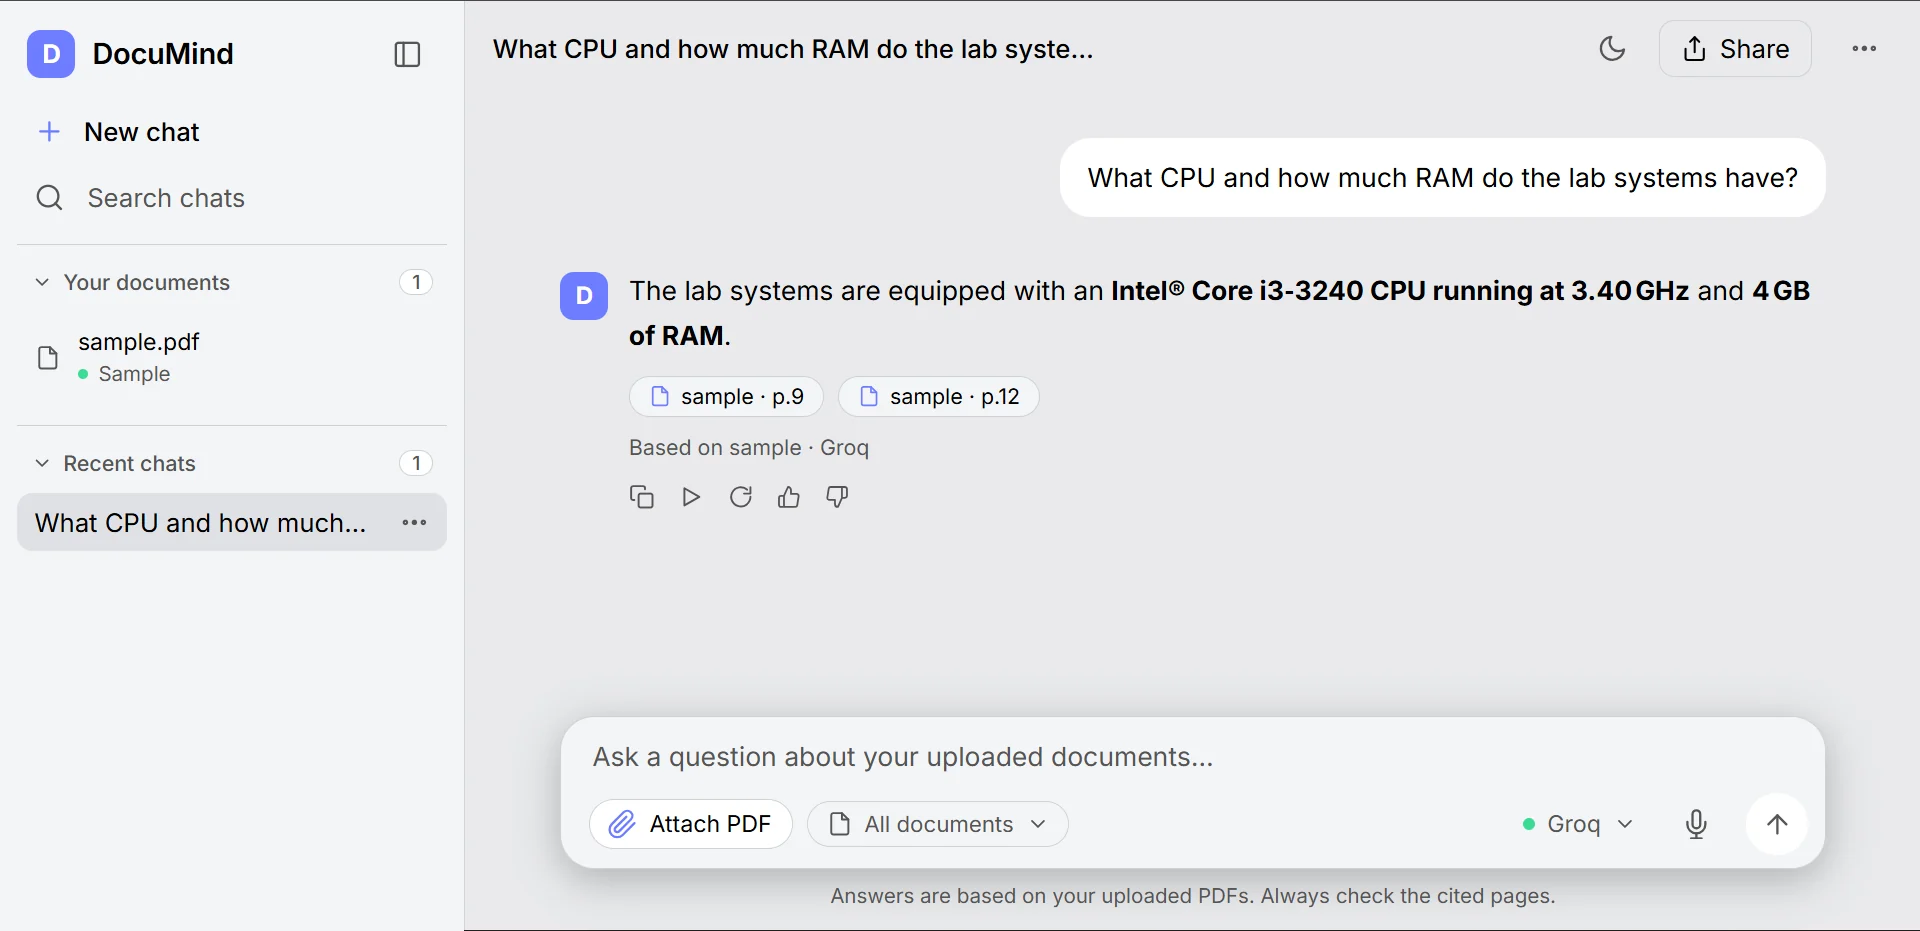
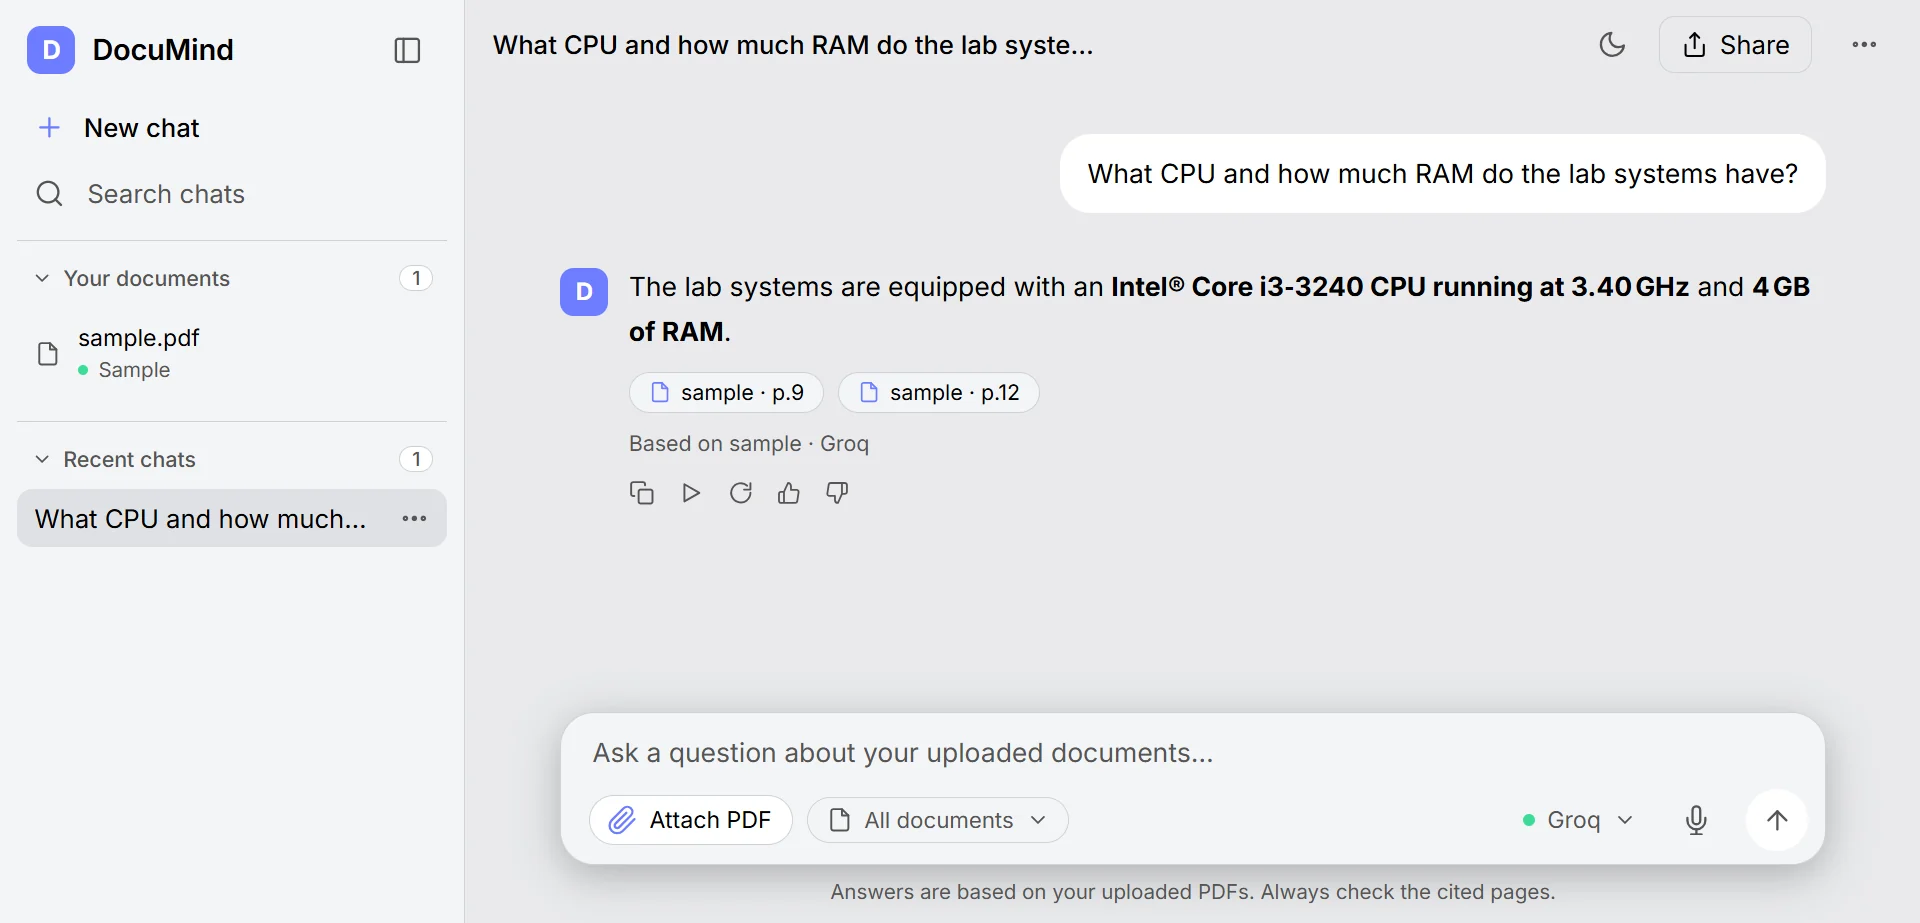
Polish Home: fix text, spacing, contrast and screenshot edges
Problem: a sentence was broken, sections had large gaps, light mode text was pale and screenshots had dark edge lines.

Fix: corrected text, tighter spacing, darker accent text in light mode, cropped screenshots, aligned cards.

Tested: npm run build; checked light and dark themes.

diff --git a/web/src/site/Legal0.jsx b/web/src/site/Legal0.jsx
@@ -1,0 +1,152 @@
+import { A } from "./shared.jsx";
+
+const MAIL = "navedmoghalpathan@proton.me";
+
+function Head({ eyebrow, title, intro, legal }) {
+  return (
+    <section className={"st-pagehead" + (legal ? " st-legal-head" : "")}>
+      <div className="st-wrap">
+        <p className="st-eyebrow">{eyebrow}</p>
+        <h1>{title}</h1>
+        {intro && <p className="st-intro">{intro}</p>}
+      </div>
+    </section>
+  );
+}
+
+function Sec({ n, title, children }) {
+  return (
+    <section className="st-legal-sec">
+      <h2><span>{n}</span>{title}</h2>
+      {children}
+    </section>
+  );
+}
+
+export function Privacy({ go }) {
+  return (
+    <>
+      <Head legal eyebrow="Legal" title="Privacy Policy" intro="Effective 1 November 2026. This explains what DocuMind collects, why, and who can see it." />
+      <section className="st-sec st-legal">
+        <div className="st-wrap st-legal-in">
+          <p className="st-legal-note">DocuMind is a portfolio project operated by Naved Korabu (Pune, India). It is a demonstration, not a commercial service. Please do not upload private, confidential or sensitive documents.</p>
+
+          <Sec n="1" title="Information we collect">
+            <table className="st-legal-table">
+              <thead><tr><th>Data</th><th>Purpose</th></tr></thead>
+              <tbody>
+                <tr><td>Email address and password (stored as a salted hash)</td><td>Account sign-in. Demo guests get a temporary account with no email.</td></tr>
+                <tr><td>Uploaded PDF files and the text extracted from them</td><td>Searching the document to answer your questions.</td></tr>
+                <tr><td>Your questions and the answers given</td><td>Producing answers. Saved in your chat history in your browser, and in feedback if you rate an answer.</td></tr>
+                <tr><td>Answer ratings (question, answer, rating)</td><td>Improving answer quality.</td></tr>
+                <tr><td>Shared chats, only when you create a share link</td><td>Showing the chat to anyone who has the link.</td></tr>
+                <tr><td>IP address and request logs</td><td>Rate limiting and abuse prevention.</td></tr>
+              </tbody>
+            </table>
+          </Sec>
+
+          <Sec n="2" title="Third-party AI providers">
+            <p>To answer a question, DocuMind sends your question and the most relevant passages of your document to an AI provider: <b>Groq</b> as the primary provider and <b>Google Gemini</b> as a fallback. Their own terms and privacy policies apply to that content. Under Google&rsquo;s free tier, submitted content may be used to improve Google products.</p>
+          </Sec>
+
+          <Sec n="3" title="Cookies and tracking">
+            <p>DocuMind does not use advertising cookies, analytics or third-party trackers. Your browser stores a sign-in token and your light or dark theme choice, which are needed for the site to work.</p>
+          </Sec>
+
+          <Sec n="4" title="Sharing">
+            <p>We do not sell your data or share it with anyone except the providers in section 2 and our hosting provider (Amazon Web Services). Share links you create are readable by anyone who has the link until you remove them.</p>
+          </Sec>
+
+          <Sec n="5" title="Retention and deletion">
+            <p>You can delete any document you uploaded from inside the app, which removes the file and its searchable text. Demo guest accounts expire after 24 hours. To delete your account and all linked data, email <a href={"mailto:" + MAIL}>{MAIL}</a>.</p>
+          </Sec>
+
+          <Sec n="6" title="Security">
+            <p>Connections use HTTPS and passwords are hashed. No online service can promise perfect security, and this is a small project, so please keep sensitive files out of it.</p>
+          </Sec>
+
+          <Sec n="7" title="Contact and changes">
+            <p>Questions about this policy: <a href={"mailto:" + MAIL}>{MAIL}</a>. If this policy changes, the effective date above will be updated.</p>
+          </Sec>
+        </div>
+      </section>
+    </>
+  );
+}
+
+export function Terms({ go }) {
+  return (
+    <>
+      <Head legal eyebrow="Legal" title="Terms of Use" intro="Effective 1 November 2026. By using DocuMind you agree to these terms." />
+      <section className="st-sec st-legal">
+        <div className="st-wrap st-legal-in">
+          <Sec n="1" title="The service">
+            <p>DocuMind is a free portfolio and learning project that answers questions about PDF files you upload. It runs on limited infrastructure and may be slow, restricted or unavailable at any time. Features, limits and availability may change or end without notice.</p>
+          </Sec>
+
+          <Sec n="2" title="Accuracy of answers">
+            <p>DocuMind answers only from your document and says &ldquo;I don&rsquo;t know&rdquo; when it cannot find an answer, but it can still be wrong. Published test results on the Results page show errors, especially when counting items in long lists. Verify important answers against the cited page. Do not rely on DocuMind for medical, legal, financial or safety decisions.</p>
+          </Sec>
+
+          <Sec n="3" title="Your content">
+            <p>You keep ownership of the files you upload. You confirm that you have the right to upload them and that they are not illegal, confidential or private. You grant DocuMind permission to process them only to provide the service, including sending excerpts to the AI providers described in the Privacy Policy.</p>
+          </Sec>
+
+          <Sec n="4" title="Acceptable use">
+            <p>Do not attempt to bypass usage limits, probe or attack the service, overload it, or use it to process unlawful content. Accounts or files that break these rules may be removed without notice.</p>
+          </Sec>
+
+          <Sec n="5" title="Disclaimer and liability">
+            <p>The service is provided &ldquo;as is&rdquo; without warranties of any kind. To the extent permitted by law, the operator is not liable for any loss arising from use of, or inability to use, the service.</p>
+          </Sec>
+
+          <Sec n="6" title="Contact">
+            <p>Questions: <a href={"mailto:" + MAIL}>{MAIL}</a>. See also the <A to="/privacy" go={go}>Privacy Policy</A>.</p>
+          </Sec>
+        </div>
+      </section>
+    </>
+  );
+}
+
+export function WorksBest() {
+  return (
+    <section className="st-sec">
+      <div className="st-wrap">
+        <p className="st-eyebrow">Before you upload</p>
+        <h2>What works best</h2>
+        <div className="st-grid2" style={{ marginTop: 20 }}>
+          <article className="st-card hl">
+            <h3>Works well</h3>
+            <p>PDFs with real, selectable text: manuals, reports, papers, notes, textbooks. Ask about a specific fact, a definition or a section.</p>
+          </article>
+          <article className="st-card">
+            <h3>Not supported</h3>
+            <p>Scanned PDFs or photos of pages (no selectable text) are rejected. Other file types such as Word or images are not supported yet.</p>
+          </article>
+          <article className="st-card">
+            <h3>Limits</h3>
+            <p>Up to 15 MB and 300 pages per PDF. Demo users can upload 1 document; signed-up users up to 5.</p>
+          </article>
+          <article className="st-card">
+            <h3>Known weak spots</h3>
+            <p>Counting items in long lists and reading exact values inside code can be wrong. Check the cited page.</p>
+          </article>
+        </div>
+      </div>
+    </section>
+  );
+}
+
+export function NotFound({ go }) {
+  return (
+    <section className="st-pagehead">
+      <div className="st-wrap" style={{ textAlign: "center", padding: "60px 0" }}>
+        <p className="st-eyebrow">404</p>
+        <h1>This page doesn&rsquo;t exist</h1>
+        <p className="st-intro" style={{ margin: "12px auto 24px" }}>Like a question that isn&rsquo;t in the document: I don&rsquo;t know that one.</p>
+        <A to="/" go={go} className="st-btn solid big">Back to home</A>
+      </div>
+    </section>
+  );
+}

diff --git a/web/src/site/Pages.jsx b/web/src/site/Pages.jsx
@@ -147,7 +147,7 @@ export function Home({ go, demo, busy }) {
           <article className="st-card hl st-public">
             <div>
               <h3>Built in public</h3>
-              <p>The code, the 30-question test to the test questions.</p>
+              <p>The code, the test questions and every result, including the wrong answers, are open for anyone to read.</p>
             </div>
             <div className="st-cta">
               <a className="st-btn solid" href={GITHUB} target="_blank" rel="noreferrer">View on GitHub</a>

diff --git a/web/src/site/Legal.jsx b/web/src/site/Legal.jsx
@@ -165,7 +165,7 @@ export function WorksBest() {
       <div className="st-wrap">
         <p className="st-eyebrow">Before you upload</p>
         <h2>What works best</h2>
-        <div className="st-grid2" style={{ marginTop: 20 }}>
+        <div className="st-grid2" style={{ marginTop: 20, maxWidth: "none" }}>
           <article className="st-card hl">
             <h3>Works well</h3>
             <p>PDFs with real, selectable text: manuals, reports, papers, notes, textbooks. Ask about a specific fact, a definition or a section.</p>

diff --git a/web/src/site/Site.css b/web/src/site/Site.css
@@ -294,4 +294,17 @@
 }
 
 
+/* spacing, light-theme contrast */
+.st-sec { padding: 56px 0; }
+.st-sec:has(.st-public) { padding-top: 0; }
+:root[data-theme="light"] .st-eyebrow,
+:root[data-theme="light"] .st-tile-link,
+:root[data-theme="light"] .st h1 em,
+:root[data-theme="light"] .st-more a,
+:root[data-theme="light"] .st-legal-sec a,
+:root[data-theme="light"] .st-legal-contact a,
+:root[data-theme="light"] .st-legal-sec h2 span { color: #4338ca !important; }
+:root[data-theme="light"] .st-stat b { color: #4338ca; }
+
+
 
